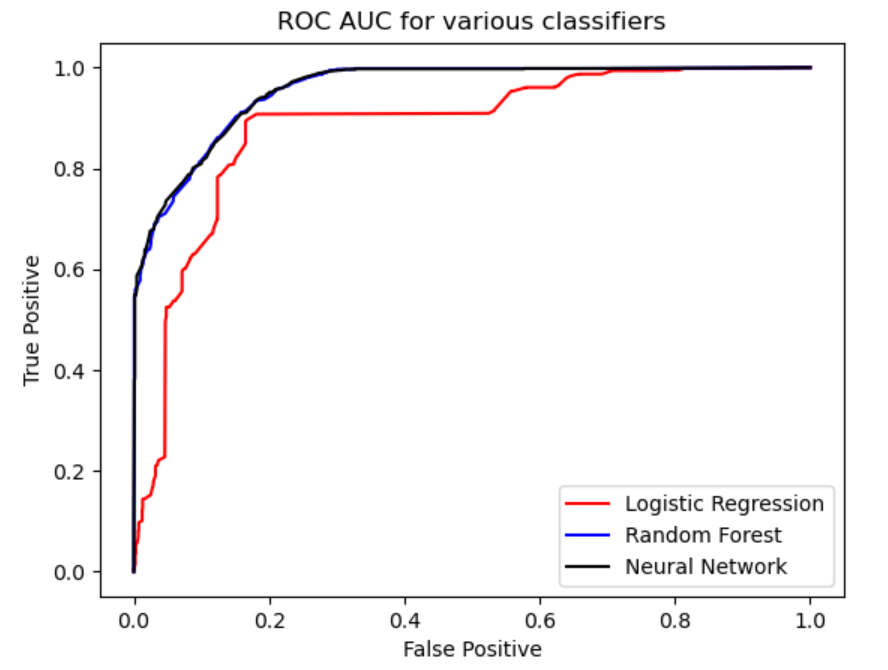
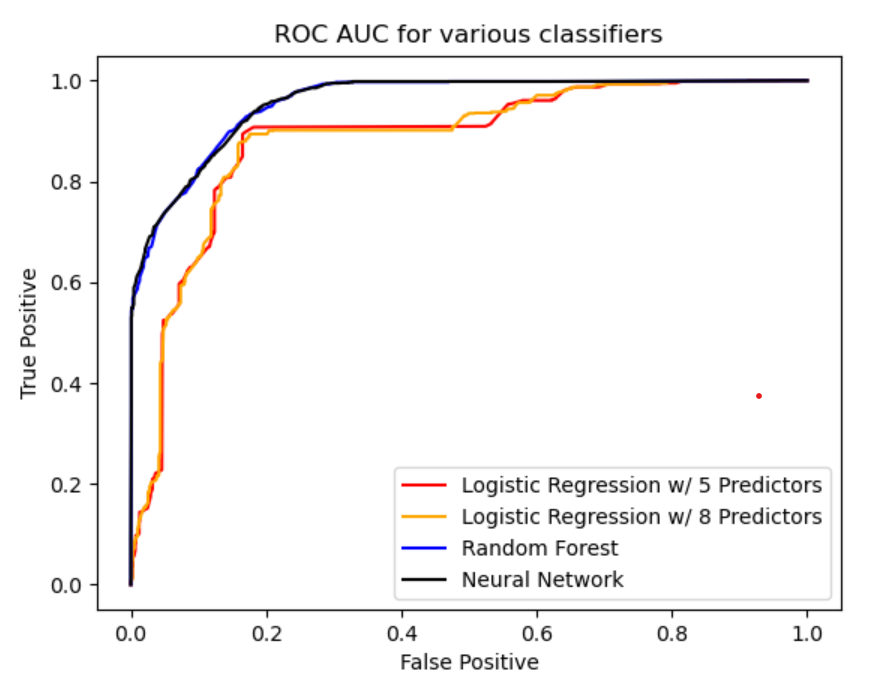
minor updates

Changed region(s): [[0.0, 0.0, 0.992, 0.9851]]

diff --git a/roc_auc.py b/roc_auc.py
@@ -19,6 +19,16 @@ else:
     ss_data = dataHelper.reduce_columns(dataHelper.get_strasburg_data(False))
     ss_data.to_csv('ss_data.csv')
 
+# Log Regression with top 8 predictors
+np_ss_data = ss_data[['prev_pitch_class','o_count','f_count','pitch_num','b_count','s_count','on_2b','on_3b','pitch_class']].to_numpy()
+red_predictors = np_ss_data[:,:-1]
+response = np_ss_data[:,-1].astype(int)
+X_train, X_test, y_train, y_test = train_test_split(red_predictors, response, test_size=.2, random_state=282)
+lr_model_8 = LogisticRegression().fit(X_train, y_train)
+lr_test_prob_8 = lr_model_8.predict_proba(X_test)[:,1]
+lr_auc_8 = roc_auc_score(y_test, lr_test_prob_8)
+print('AUC of linear regression classifier with 8 features: {}'.format(lr_auc_8))
+
 # Log Regression with top 5 predictors
 np_ss_data = ss_data[['prev_pitch_class','o_count','f_count','pitch_num','b_count','pitch_class']].to_numpy()
 red_predictors = np_ss_data[:,:-1]
@@ -43,9 +53,11 @@ print('AUC of neural network: {}'.format(nn_auc))
 
 #Plotting ROC AUC
 lr_fpr, lr_tpr, _ = roc_curve(y_test, lr_test_prob)
+lr_fpr_8, lr_tpr_8, _ = roc_curve(y_test, lr_test_prob_8)
 rf_fpr, rf_tpr, _ = roc_curve(y_test, rfc_test_prob)
 nn_fpr, nn_tpr, _ = roc_curve(y_test, nn_test_prob)
-plt.plot(lr_fpr, lr_tpr, color='Red', label='Logistic Regression')
+plt.plot(lr_fpr, lr_tpr, color='Red', label='Logistic Regression w/ 5 Predictors')
+plt.plot(lr_fpr_8, lr_tpr_8, color='Orange', label='Logistic Regression w/ 8 Predictors')
 plt.plot(rf_fpr, rf_tpr, color='Blue', label='Random Forest')
 plt.plot(nn_fpr, nn_tpr, color='Black', label='Neural Network')
 plt.xlabel('False Positive')

diff --git a/data.py b/data.py
@@ -79,6 +79,7 @@ def load_pitches(atbat_ids = ''):
     if (atbat_ids != ''):
         pitches = pitches.loc[(pitches['ab_id'].isin(atbat_ids))]
 
+    print(set(pitches['pitch_type']))
     # based on pitch_type, build a pitch_class field to distinguish fastballs from off-speed pitches    
     pitches['pitch_class'] = pitches['pitch_type'].apply(lambda x: pitch_class(x))
 
@@ -135,9 +136,6 @@ def get_data_with_count(data, balls, strikes, reverse=False):
     return data
 
 #Testing
-# ss_data = reduce_columns(get_strasburg_data(False))
-# ss_data = pd.read_csv('ss_data_test.csv')
-# ss_data_reduced = get_data_with_count(ss_data, 0, 0, True)
-# print(ss_data_reduced)
-# ss_data_reduced.to_csv('ss_data_test.csv')
-
+# ss_data = pd.read_csv('ss_data.csv')
+# Pitch types
+# print(set(ss_data.pitch_type))

diff --git a/classifiers.py b/classifiers.py
@@ -77,9 +77,11 @@ response = np_ss_data[:,-1].astype(int)
 X_train, X_test, y_train, y_test = train_test_split(red_predictors, response, test_size=.2, random_state=282)
 
 #Random Forest
-rfc = RFC(max_depth=6).fit(X_train, y_train)
-rfc_y_test_predictions = rfc.predict(X_test)
-print('Accuracy of random forest regression {}%'.format(round(100*accuracy_score(y_test, rfc_y_test_predictions),2)))
+for i in [100]:
+    for j in [5, 6, 7, 8, 9, 10]:
+        rfc = RFC(max_depth=j, n_estimators=i).fit(X_train, y_train)
+        rfc_y_test_predictions = rfc.predict(X_test)
+        print('Accuracy of random forest regression ({} estimators, {} depth) {}%'.format(i,j,round(100*accuracy_score(y_test, rfc_y_test_predictions),2)))
 
 #Neural Network
 for i in [3, 25, 50, 100]:

diff --git a/analysis.py b/analysis.py
@@ -27,4 +27,3 @@ for pitch_class in pitch_classes:
 
 # Fastballs: 6874 -> 54.43%, Off-speeds: 5755 -> 46.57%
 print(pitch_class_summaries) 
-
